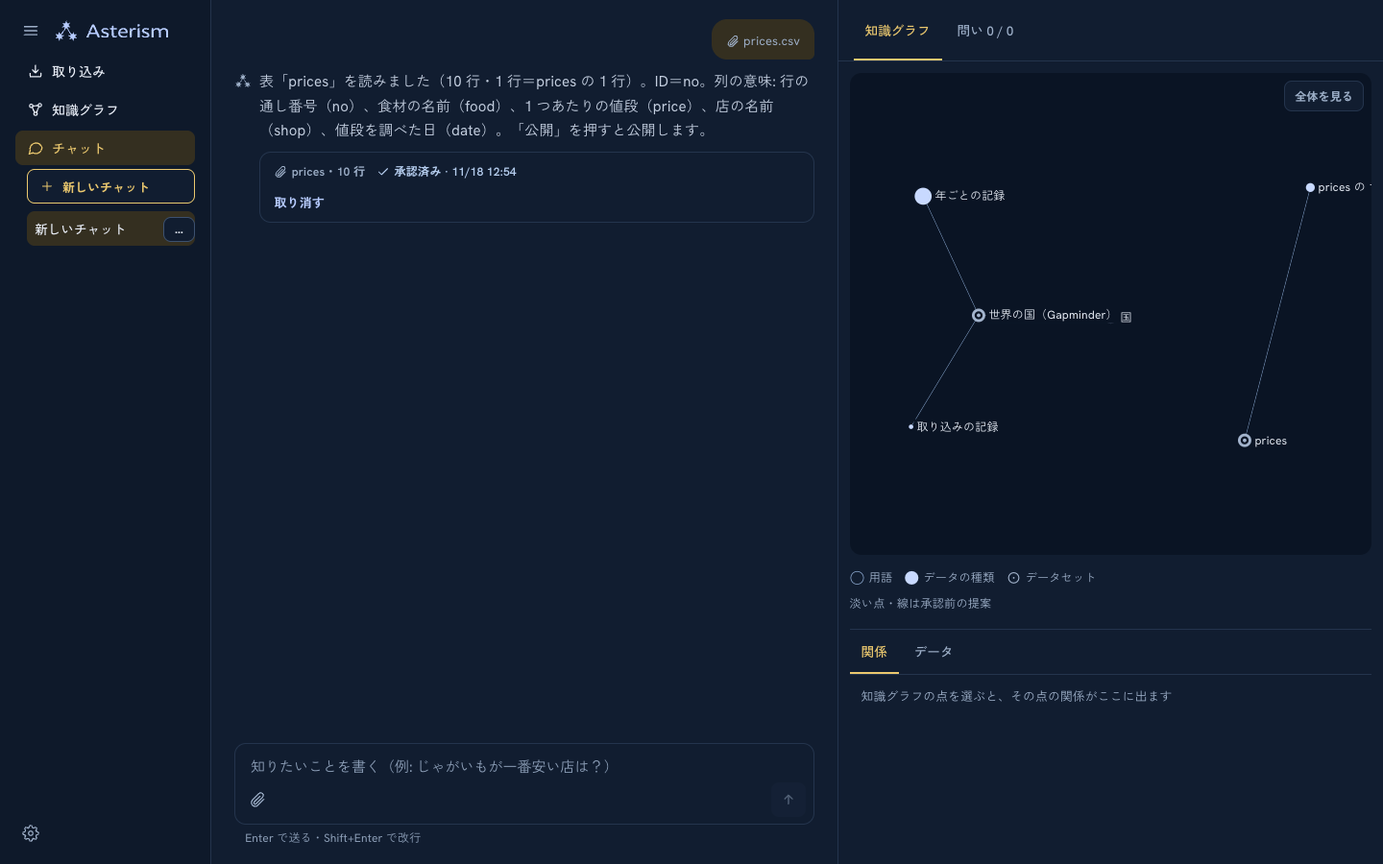
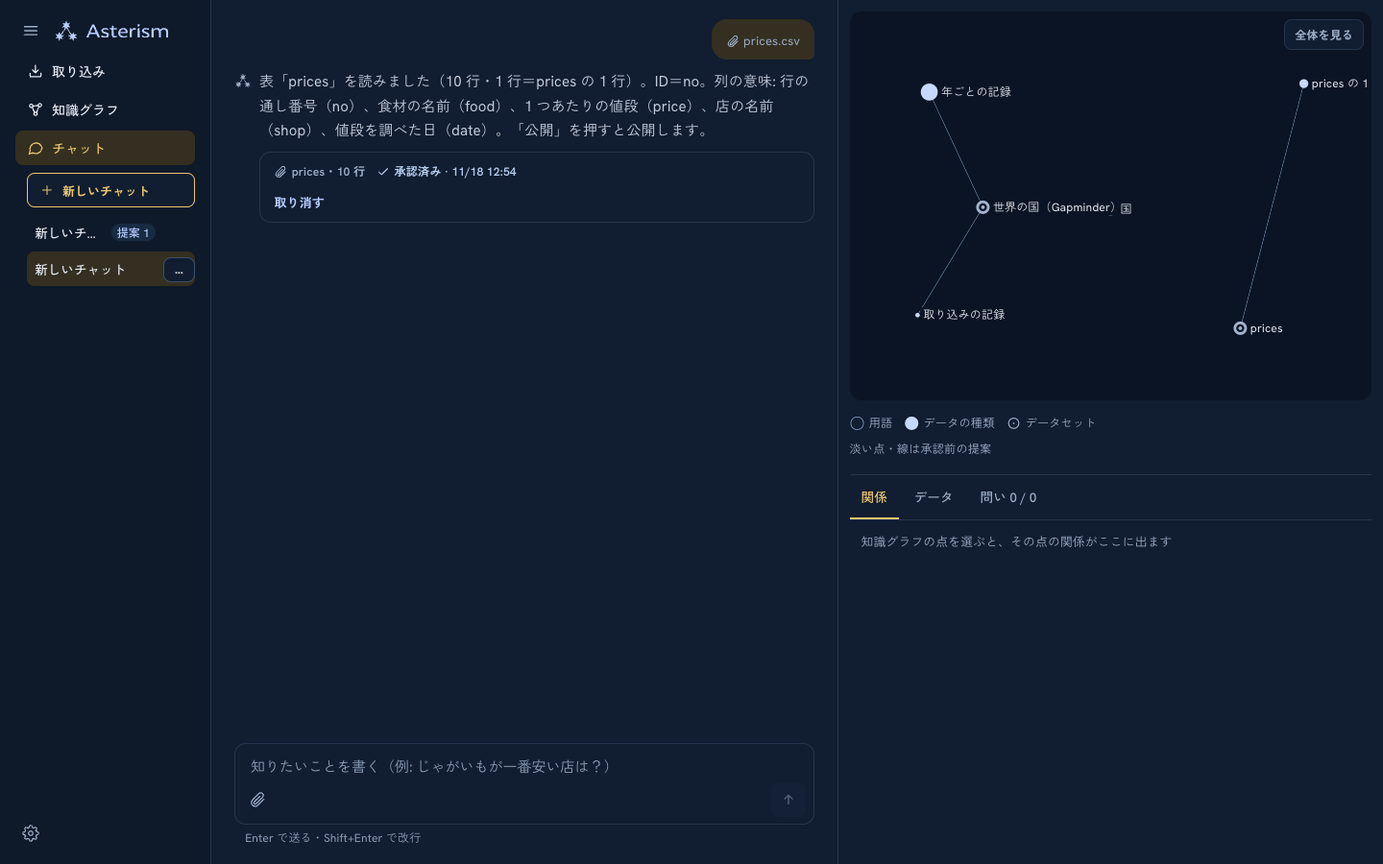
feat(ui): チャットの右を「知識グラフ」の場所とそろえる — 同じ部品・同じ順で、違いは大きさだけ
グラフの部品とデータは同じでも、まわりの並びが場所で違っていた（チャットはタブが 2 段・
選んだ点の 1 枚はチャットの先頭）。知識グラフに添える列を 1 つにし、両方の場所で使う。

- チャットの右: 知識グラフ → 選んだ点の 1 枚 → 「関係」「データ」「問い」の 1 段
- 1 枚の「データを見る」は、どの場所でも右のタブを「データ」に切り替えるだけ
- 問いの文を押すと、知識グラフが見える所まで戻る
- チャットの右の知識グラフは列の高さの 45%（下に 1 枚と一覧が続く）
- ChatPane から 1 枚の props を外し、使わなくなった文言と CSS を消した
- マニュアル・ADR・ROADMAP を直し、チャットの画像を撮り直した

diff --git a/docs/manual/ja/graph.html b/docs/manual/ja/graph.html
@@ -22,7 +22,7 @@
 <h2 id="全体の図">全体の図</h2>
 <p>公開済みの用語とデータの種類を、全部まとめて見る図です。丸と、その横の文字で描かれます。</p>
 <div class="tablewrap"><table><thead><tr><th>図の中のもの</th><th>描きかた</th></tr></thead><tbody><tr><td>○ 輪郭円（青灰）</td><td>用語（種類か項目）</td></tr><tr><td>● 塗り円（紺）</td><td>データの種類（公開した表の種類）。大きさは件数の対数</td></tr><tr><td>⊙ 中心点のある輪郭円（灰青）</td><td>データセット。種類を束ねる</td></tr><tr><td>淡く「(提案)」が付いた丸</td><td>提案（AI が追加したが、まだ承認していない）</td></tr><tr><td>濃い丸</td><td>承認済み（承認で確定した）</td></tr><tr><td>削除の提案</td><td>承認済みのものに「削除」を押すと、橙の塗りで示される。承認で確定する</td></tr></tbody></table></div>
-<ul><li>ホイール（タッチなら 2 本指）で拡大・縮小し、ドラッグで動かします。</li><li>点にマウスを載せると、その点の周りだけが濃くなり、名前が出ます。</li><li>用語どうしをつなぐ線に触れると、関係の名前（一種・一部・下げる・上げる・変える・作る・測る・変わる・競合する・物性）が出ます。</li><li>右上の「全体を見る」で、全体が収まる大きさに戻ります。</li><li>丸を押すと、チャットの先頭に 1 枚が出て、下の「関係」「データ」も変わります。入力欄の上には対象の札が付きます（下の「関係」「データ」「点を押す 1 枚」「対象」）。</li><li>名前は、重ならないものだけが出ます。拡大すると細かい名前も出てきます。</li><li>図の下の凡例も「○ 用語・● データの種類・⊙ データセット」の記号で示します。提案には淡さに加えて名前に「(提案)」が付きます。</li><li>同じ内容なら、いつも同じ図が描かれます。</li><li>何もないときは「まだ何もありません。問いを書くか表を添えると、ここに知識グラフが育ちます」と出ます。</li></ul>
+<ul><li>ホイール（タッチなら 2 本指）で拡大・縮小し、ドラッグで動かします。</li><li>点にマウスを載せると、その点の周りだけが濃くなり、名前が出ます。</li><li>用語どうしをつなぐ線に触れると、関係の名前（一種・一部・下げる・上げる・変える・作る・測る・変わる・競合する・物性）が出ます。</li><li>右上の「全体を見る」で、全体が収まる大きさに戻ります。</li><li>丸を押すと、右の列に 1 枚が出て、その下の「関係」「データ」も変わります。入力欄の上には対象の札が付きます（下の「関係」「データ」「点を押す 1 枚」「対象」）。</li><li>名前は、重ならないものだけが出ます。拡大すると細かい名前も出てきます。</li><li>図の下の凡例も「○ 用語・● データの種類・⊙ データセット」の記号で示します。提案には淡さに加えて名前に「(提案)」が付きます。</li><li>同じ内容なら、いつも同じ図が描かれます。</li><li>何もないときは「まだ何もありません。問いを書くか表を添えると、ここに知識グラフが育ちます」と出ます。</li></ul>
 <figure><a href="../screenshots/map.png" title="原寸で開く"><img src="../screenshots/map.png" alt="右の領域: 知識グラフ（丸＋横の文字）と、その下の「データ」"></a></figure>
 <figure><a href="../screenshots/confirm.png" title="原寸で開く"><img src="../screenshots/confirm.png" alt="承認で承認済み。知識グラフが濃くなる"></a></figure>
 <figure><a href="../screenshots/contents.png" title="原寸で開く"><img src="../screenshots/contents.png" alt="知識グラフのデータの種類を押すと、下にデータの表が出る"></a></figure>
@@ -36,16 +36,16 @@
 <div class="tablewrap"><table><thead><tr><th>押したもの</th><th>データに出るもの</th></tr></thead><tbody><tr><td>● 塗り円（データの種類）</td><td>その種類の行を 20 件まで。全件数も出る</td></tr><tr><td>○ 輪郭円（用語）</td><td>用語に結ばれた各データの表。データごとに小見出し。最大 3 表</td></tr><tr><td>⊙ 中心点のある輪郭円（データセット）</td><td>そのデータの種類の表。最大 3 表</td></tr><tr><td>淡く「(提案)」が付いた塗り円（📎 で添えた未公開の表）</td><td>公開前の表</td></tr><tr><td>何も押していない</td><td>このチャットで添えた表</td></tr></tbody></table></div>
 <ul><li>表が 3 つを超えるときは「ほか N 表は「値のつながり」で」と出ます。</li><li>見出し行を押すと折りたためます（次から覚えます）。</li><li>右上の「値のつながり」で、値の網に移ります（下の節）。</li><li>添えた表が無く、何も押していないときは「知識グラフの点を押すと、そのデータがここに出ます」と出ます。</li><li>行が 0 件のときは「まだ行がありません」と出ます。</li><li>薄い提案の用語は、承認して公開するまで行がありません。「承認して公開すると、ここに行が出ます」と出ます。</li></ul>
 <h2 id="問いのタブ">問いのタブ</h2>
-<p>一番上の「問い N / M」を押すと、承認した問いの一覧が出ます。縦にいくらでも並びます。</p>
+<p>「関係」「データ」の隣の「問い N / M」を押すと、承認した問いの一覧が出ます。縦にいくらでも並びます。</p>
 <div class="tablewrap"><table><thead><tr><th>欄</th><th>内容</th></tr></thead><tbody><tr><td>印</td><td>✓＝今のデータで答えられる・–＝まだ</td></tr><tr><td>問いの文</td><td>承認した問い。並びは話のテーマの順</td></tr><tr><td>下の小さい 1 行</td><td>データの問いは「〈データセット名〉で答えられる」（複数なら「・」でつなぎ、3 つまで＋「ほか n」）か「用語はある・データがまだ無い」。知識の問いは「関係で答えられる（n 本）」</td></tr><tr><td>薄い行</td><td>まだ承認していない提案の問い。「まだ承認していません」と出る</td></tr></tbody></table></div>
-<ul><li>問いの文を押すと、知識グラフが前に出て（「チャット」の右では「知識グラフ」のタブに切り替わり）、その問いに要る用語と、それに結ばれたデータの種類が光ります。</li><li>「回答」を押すと、「チャット」に移り、その問いが、質問として送られます（AI の答える口が設定されていないときは、その旨が返ります）（<a href="./ask.html">質問する</a>）。送ったあとは「送りました」になり、押せなくなります。</li><li>問いが 1 つも無いときは「問いはまだありません。チャットで聞いて「承認」すると増えます」と出ます。</li></ul>
+<ul><li>問いの文を押すと、知識グラフが見える所まで戻り、その問いに要る用語と、それに結ばれたデータの種類が光ります。</li><li>「回答」を押すと、「チャット」に移り、その問いが、質問として送られます（AI の答える口が設定されていないときは、その旨が返ります）（<a href="./ask.html">質問する</a>）。送ったあとは「送りました」になり、押せなくなります。</li><li>問いが 1 つも無いときは「問いはまだありません。チャットで聞いて「承認」すると増えます」と出ます。</li></ul>
 <figure><a href="../screenshots/questions.png" title="原寸で開く"><img src="../screenshots/questions.png" alt="問いのタブ: 答えられる問いに ✓、データセット名が下に出る"></a></figure>
 <h2 id="薄いと濃い">薄いと濃い</h2>
 <div class="tablewrap"><table><thead><tr><th>状態</th><th>どうなる</th></tr></thead><tbody><tr><td>淡く「(提案)」付き（承認前）</td><td>AI が返事のたびに追加する。承認しなくても消えない。「取り消す」で取り消せる</td></tr><tr><td>濃い（承認済み）</td><td>返事の「承認」で確定する。来歴が残り、質問やほかの AI からの問い合わせで使われる</td></tr></tbody></table></div>
 <p>承認済みになったものだけが、質問（<a href="./ask.html">質問する</a>）と外の AI への回答に使われます。</p>
 <h2 id="点を押す-1-枚">点を押す 1 枚</h2>
-<p>知識グラフの丸を押すと、1 枚が出ます（「知識グラフ」では右の上、「チャット」ではチャットの先頭。「取り込み」の右で押すと「知識グラフ」に移ります）。同時に、「関係」「データ」もその点のものに変わります。関係の一覧は 1 枚には出ません。「関係」のタブで見ます。</p>
-<div class="tablewrap"><table><thead><tr><th>欄</th><th>内容</th></tr></thead><tbody><tr><td>名前と種別</td><td>用語・種類・標準用語・つながり・提案</td></tr><tr><td>標準用語</td><td>「≡」の行。押すと標準用語の 1 枚</td></tr><tr><td>来歴</td><td>例: チャット「食材の値段」で 10/22 に AI が追加し、人が承認。「チャットを開く →」でそのチャットへ</td></tr><tr><td>データを見る</td><td>丸のとき。押すと、チャットに表が差し込まれる</td></tr><tr><td>削除</td><td>承認済みは「削除の提案」になり、承認で確定。薄いものは取り消し</td></tr></tbody></table></div>
+<p>知識グラフの丸を押すと、1 枚が出ます（「知識グラフ」では右の上、「チャット」では右の知識グラフの下。「取り込み」の右で押すと「知識グラフ」に移ります）。同時に、「関係」「データ」もその点のものに変わります。関係の一覧は 1 枚には出ません。「関係」のタブで見ます。</p>
+<div class="tablewrap"><table><thead><tr><th>欄</th><th>内容</th></tr></thead><tbody><tr><td>名前と種別</td><td>用語・種類・標準用語・つながり・提案</td></tr><tr><td>標準用語</td><td>「≡」の行。押すと標準用語の 1 枚</td></tr><tr><td>来歴</td><td>例: チャット「食材の値段」で 10/22 に AI が追加し、人が承認。「チャットを開く →」でそのチャットへ</td></tr><tr><td>データを見る</td><td>丸のとき。押すと、右のタブが「データ」に切り替わる（チャットに表で出したいときは「〜を見せて」と書く）</td></tr><tr><td>削除</td><td>承認済みは「削除の提案」になり、承認で確定。薄いものは取り消し</td></tr></tbody></table></div>
 <p>まだ公開していない表（データ）の丸は淡く出て、名前に「(提案)」が付きます。</p>
 <p><img src="../screenshots/point-term.png" alt="用語の丸を押すと出る 1 枚（名前・来歴）"><img src="../screenshots/point-star.png" alt="データの種類の丸を押すと出る 1 枚（データ）"></p>
 <figure><a href="../screenshots/map-point.png" title="原寸で開く"><img src="../screenshots/map-point.png" alt="知識グラフの丸を押すと 1 枚が開き、周りだけ濃くなる"></a></figure>

diff --git a/docs/manual/ja/screens.html b/docs/manual/ja/screens.html
@@ -18,8 +18,8 @@
 <h2 id="左のナビと-3-つの場所">左のナビと 3 つの場所</h2>
 <p>画面の左に、ナビが 3 つあります。「取り込み」「知識グラフ」「チャット」です（この順）。押すと、その場所に移ります。チャットの一覧は「チャット」の下にあり、どの場所にいても見えます。左下の ⚙（設定）は今までどおりです。「チャットの一覧を開閉」でたたむと、アイコンだけになります。</p>
 <figure><a href="../screenshots/place-import.png" title="原寸で開く"><img src="../screenshots/place-import.png" alt="取り込み: 中央にファイルを添える入口とデータセットの一覧、右に知識グラフ"></a></figure>
-<div class="tablewrap"><table><thead><tr><th>場所</th><th>中央</th><th>右</th></tr></thead><tbody><tr><td>取り込み</td><td>「ファイルを添える」（「この PC のファイル」。取り込み元を設定していれば「〈サーバ名〉 のファイル」も）と、「データセット」の一覧</td><td>知識グラフ（全体の図）</td></tr><tr><td>知識グラフ</td><td>知識グラフ（大きく）</td><td>選んだ点の 1 枚と、タブ「関係」「データ」「問い N / M」</td></tr><tr><td>チャット</td><td>入力欄（1 つの丸い枠。📎 で表を添え、丸い送るボタンか Enter で送る。Shift+Enter で改行）。人の文は右の吹き出し、AI の文は地の文。知識グラフへの提案は差し込みの札で、「承認」「公開」「取り消す」がある</td><td>一番上のタブ「知識グラフ」「問い N / M」。知識グラフの下に「関係」「データ」のタブ</td></tr></tbody></table></div>
-<ul><li>知識グラフは、○ 輪郭円＝用語・● 塗り円＝データの種類・「(提案)」付き＝承認前です。「関係」「データ」は、押した点について言っていることの行と、実際の行の表です。「値のつながり」はデータの右上にあります</li><li>最初に開く場所は、データセットもチャットも無ければ「取り込み」、あれば最後にいた場所です（覚えが無ければ、チャットがあるときはチャット、無ければ取り込み）</li><li>「取り込み」でファイルを選ぶと、新しいチャットが作られて「チャット」に移り、そこで読み取りの返事と承認が出ます。データセットの行を押すと「知識グラフ」に移り、そのデータセットが選ばれます</li><li>「知識グラフ」で、関係の「削除」「修正」「承認」や問いの「回答」を押すと、「チャット」に移って続きます。点の 1 枚の「データを見る」は、右のタブを「データ」に切り替えるだけです</li><li>画面の URL は <code>#/import</code>・<code>#/graph</code>・<code>#/chat</code>・<code>#/chat/&lt;id&gt;</code>・<code>#/settings</code> です</li></ul>
+<div class="tablewrap"><table><thead><tr><th>場所</th><th>中央</th><th>右</th></tr></thead><tbody><tr><td>取り込み</td><td>「ファイルを添える」（「この PC のファイル」。取り込み元を設定していれば「〈サーバ名〉 のファイル」も）と、「データセット」の一覧</td><td>知識グラフ（全体の図）</td></tr><tr><td>知識グラフ</td><td>知識グラフ（大きく）</td><td>選んだ点の 1 枚と、タブ「関係」「データ」「問い N / M」</td></tr><tr><td>チャット</td><td>入力欄（1 つの丸い枠。📎 で表を添え、丸い送るボタンか Enter で送る。Shift+Enter で改行）。人の文は右の吹き出し、AI の文は地の文。知識グラフへの提案は差し込みの札で、「承認」「公開」「取り消す」がある</td><td>知識グラフ。その下に、押した点の 1 枚と「関係」「データ」「問い N / M」のタブ（「知識グラフ」の場所の右と同じ並び）</td></tr></tbody></table></div>
+<ul><li>知識グラフは、○ 輪郭円＝用語・● 塗り円＝データの種類・「(提案)」付き＝承認前です。「関係」「データ」は、押した点について言っていることの行と、実際の行の表です。「値のつながり」はデータの右上にあります</li><li>最初に開く場所は、データセットもチャットも無ければ「取り込み」、あれば最後にいた場所です（覚えが無ければ、チャットがあるときはチャット、無ければ取り込み）</li><li>「取り込み」でファイルを選ぶと、新しいチャットが作られて「チャット」に移り、そこで読み取りの返事と承認が出ます。データセットの行を押すと「知識グラフ」に移り、そのデータセットが選ばれます</li><li>「知識グラフ」で、関係の「削除」「修正」「承認」や問いの「回答」を押すと、「チャット」に移って続きます。点の 1 枚の「データを見る」は、どの場所でも、右のタブを「データ」に切り替えるだけです</li><li>画面の URL は <code>#/import</code>・<code>#/graph</code>・<code>#/chat</code>・<code>#/chat/&lt;id&gt;</code>・<code>#/settings</code> です</li></ul>
 <p>狭い画面（980px 以下）では、ナビは下の 3 つのタブ（取り込み・知識グラフ・チャット）になり、場所ごとに 1 列で出ます。「チャット」はチャットだけで、チャットの一覧は上の ≡ で開きます。知識グラフと問いは、下のタブ「知識グラフ」で見ます。</p>
 <h2 id="チャットの見かた">チャットの見かた</h2>
 <div class="tablewrap"><table><thead><tr><th>もの</th><th>見え方</th></tr></thead><tbody><tr><td>あなたの文</td><td>右寄せの吹き出し。表を添えたときは、クリップの印と名前が付く</td></tr><tr><td>AI の文</td><td>吹き出しの無い地の文。考えている間は 3 つの点</td></tr><tr><td>知識グラフへの提案</td><td>文の下の札。上の行は「知識グラフへの提案 · N 件」（承認後は「承認済み · 日時」、取り消すと「取り消し済み」）、下の行は「承認」（表を公開するときは「公開」）と「取り消す」</td></tr><tr><td>入力欄</td><td>1 つの丸い枠。書くほど行が伸びる。左下の 📎 で表を添え、右下の丸い送るボタンで送る。枠の下に「Enter で送る・Shift+Enter で改行」</td></tr></tbody></table></div>
@@ -32,7 +32,7 @@
 <h2 id="公開したデータに質問する">公開したデータに質問する</h2>
 <p>同じチャットに「スーパーの価格表には何件ある？ 回答して」のように書きます。答えには出典が付きます（<a href="./ask.html">質問する</a>）。</p>
 <h2 id="点を押す-データを見る">点を押す・データを見る</h2>
-<p>知識グラフの丸を押すと、「知識グラフ」では右に、「チャット」ではチャットの先頭に 1 枚が出て（名前・来歴・データを見る・削除）、下の「関係」「データ」も変わり、入力欄の上に対象の札（「対象: 〈名前〉」）が付きます。「値段の記録を見せて」と書くと表で返ります（<a href="./graph.html">知識グラフ</a>・<a href="./workspace.html">見る</a>）。</p>
+<p>知識グラフの丸を押すと、右の列に 1 枚が出て（名前・来歴・データを見る・削除。「知識グラフ」では右の上、「チャット」では知識グラフの下）、その下の「関係」「データ」も変わり、入力欄の上に対象の札（「対象: 〈名前〉」）が付きます。「値段の記録を見せて」と書くと表で返ります（<a href="./graph.html">知識グラフ</a>・<a href="./workspace.html">見る</a>）。</p>
 <h2 id="値のつながり">値のつながり</h2>
 <p>「データ」の見出し行の右上にあります。値でつなぐ網に移ります（<a href="./graph.html">知識グラフ</a>）。</p>
 <h2 id="使う-AI-プロバイダ-言語-利用許可コード-使用量">使う AI（プロバイダ）・言語・利用許可コード・使用量</h2>

diff --git a/ui/src/chat/ChatApp.tsx b/ui/src/chat/ChatApp.tsx
@@ -83,6 +83,8 @@ const messageOf = (e: unknown): string => (e instanceof Error ? e.message : Stri
 
 /** 知識グラフを入れ物いっぱいに出すときに引く高さ（見出し・凡例・上下の余白）。 */
 const MAP_CHROME_PX = 96
+/** 「チャット」の右で知識グラフが取る高さの割合。下に 1 枚と「関係」「データ」「問い」が続くので半分弱。 */
+const CHAT_MAP_RATIO = 0.45
 
 export function ChatApp() {
   const { t, i18n } = useTranslation('chat')
@@ -231,9 +233,7 @@ export function ChatApp() {
   useEffect(() => {
     setReader(null)
   }, [view, composerKey])
-  // 「チャット」の右の領域の一番上のタブ
-  const [rtab, setRtab] = useState<'graph' | 'questions'>('graph')
-  // 「知識グラフ」の右の領域で「問い」のタブを開いているか（関係／データは subTab が決める）
+  // 右の列（「知識グラフ」の右・「チャット」の右で共通）で「問い」のタブを開いているか（関係／データは subTab が決める）
   const [graphQuestions, setGraphQuestions] = useState(false)
 
   // ── 点を押した 1 枚（図の点・線 → GET /api/chat/point → チャットの先頭） ──
@@ -854,8 +854,8 @@ export function ChatApp() {
     const apply = () => {
       if (layout.tabs) return setMapH(Math.round(window.innerHeight * 0.55))
       const h = el?.clientHeight ?? 0
-      // 「チャット」の右は下に関係とデータが続くので 6 割。ほかの場所は入れ物いっぱい（凡例と余白の分を引く）
-      if (h > 0) setMapH(Math.max(260, place === 'chat' ? Math.round(h * 0.6) : h - MAP_CHROME_PX))
+      // 「チャット」の右は下に 1 枚と一覧が続くので半分弱。ほかの場所は入れ物いっぱい（凡例と余白の分を引く）
+      if (h > 0) setMapH(Math.max(260, place === 'chat' ? Math.round(h * CHAT_MAP_RATIO) : h - MAP_CHROME_PX))
     }
     apply()
     window.addEventListener('resize', apply)
@@ -869,7 +869,6 @@ export function ChatApp() {
   }, [layout.tabs, addOpen, place])
 
   // ── 問いのタブ（PR 11l） ──
-  const rightView: 'graph' | 'questions' = rtab
   const qAnswerable = okSky ? okSky.sky.questions.filter(isAnswerable).length : 0
   const qTotal = okSky?.sky.questions.length ?? 0
   const proposedQuestions = useMemo(
@@ -886,9 +885,8 @@ export function ChatApp() {
     (q: SkyQuestion) => {
       const members = (okSky?.sky.terms ?? []).filter((x) => q.needs.includes(x.iri)).flatMap((x) => x.members.map((m) => m.iri))
       setHighlight({ iris: [...new Set([...q.needs, ...members])] })
-      // 「チャット」の右のタブからは知識グラフのタブへ。「知識グラフ」の場所では図は既に出ている（375 は図まで戻す）
-      if (placeRef.current === 'chat') setRtab('graph')
-      else if (layout.tabs) scrollRef.current?.scrollTo?.({ top: 0 })
+      // 知識グラフが同じ列の上にあるとき（「チャット」の右・375 の「知識グラフ」）は、光った点が見えるよう上まで戻す
+      if (placeRef.current === 'chat' || layout.tabs) scrollRef.current?.scrollTo?.({ top: 0 })
     },
     [okSky, layout.tabs],
   )
@@ -1008,7 +1006,7 @@ export function ChatApp() {
   const questionsPanel = okSky && (
     <QuestionsPanel questions={okSky.sky.questions} sky={okSky.sky} proposed={proposedQuestions} onPick={onPickQuestion} onAsk={onAskQuestion} busy={busy !== null} />
   )
-  /** 「知識グラフ」の場所の右（375 では図の下）: 選んだ点の 1 枚＋「関係」「データ」「問い」。 */
+  /** 知識グラフに添える列（「知識グラフ」の右・「チャット」の右の知識グラフの下・375 では図の下）: 選んだ点の 1 枚＋「関係」「データ」「問い」。 */
   const graphSide = okSky && (
     <>
       {sel && point && (
@@ -1018,7 +1016,7 @@ export function ChatApp() {
             point={point}
             busy={busy !== null}
             titleOf={titleOf}
-            // ここでは右のタブを「データ」に切り替えるだけ（チャットに文を送らない）
+            // 右のタブを「データ」に切り替えるだけ（チャットに文を送らない。表で見たいときは「〜を見せて」と書く）
             onContents={() => {
               setTempTab({ pickedId })
               setGraphQuestions(false)
@@ -1173,15 +1171,6 @@ export function ChatApp() {
           onConfirm={(id, d) => void onConfirm(id, d)}
           onRevert={(id) => void onRevert(id)}
           onOpenSettings={() => openSettings()}
-          // 375 の「チャット」には知識グラフが無いので、点の 1 枚は「知識グラフ」の場所に出す
-          point={sel && !layout.tabs ? point : null}
-          titleOf={titleOf}
-          onContents={(name) => {
-            setTempTab({ pickedId })
-            void onSend(t('point.showText', { name }))
-          }}
-          onPointRevert={(p) => void onPointRevert(p)}
-          onPointRemove={() => void onPointRemove()}
           undone={undone}
           onHighlight={setHighlight}
           scopeBar={scope ? <ScopeBar name={scope.name} onClear={() => setScope(null)} /> : undefined}
@@ -1205,35 +1194,15 @@ export function ChatApp() {
           <div className="chat-right-scroll">{graphSide}</div>
         </section>
       )}
+      {/* 「チャット」の右は「知識グラフ」の場所と同じ部品・同じ順（知識グラフ → 1 枚 → 関係・データ・問い）。違いは大きさだけ */}
       {!layout.tabs && place === 'chat' && (
         <section className="chat-right">
-          <div className="chat-rtabs" role="tablist" aria-label={tq('tab.label')}>
-            <button type="button" role="tab" data-testid="tab-knowledge" aria-selected={rightView === 'graph'} className={`chat-tab${rightView === 'graph' ? ' active' : ''}`} onClick={() => setRtab('graph')}>
-              {tq('tab.graph')}
-            </button>
-            <button type="button" role="tab" data-testid="tab-questions" aria-selected={rightView === 'questions'} className={`chat-tab${rightView === 'questions' ? ' active' : ''}`} onClick={() => setRtab('questions')}>
-              {tq('tab.questions', { n: qAnswerable, m: qTotal })}
-            </button>
-          </div>
           {skyStatus}
-          {okSky && rightView === 'questions' && <div className="chat-right-scroll">{questionsPanel}</div>}
-          <div className="chat-right-scroll" ref={scrollRef} hidden={rightView !== 'graph'}>
-            {okSky && (
-              <>
-                {mapBlock(onMapSelect)}
-                <div className="chat-rtabs chat-subtabs" role="tablist" aria-label={t('sentences.tabs')}>
-                  <button type="button" role="tab" data-testid="tab-sentences" aria-selected={subTab === 'sentences'} className={`chat-tab${subTab === 'sentences' ? ' active' : ''}`} onClick={() => chooseSub('sentences')}>
-                    {t('sentences.tab')}
-                  </button>
-                  <button type="button" role="tab" data-testid="tab-data" aria-selected={subTab === 'data'} className={`chat-tab${subTab === 'data' ? ' active' : ''}`} onClick={() => chooseSub('data')}>
-                    {t('sentences.dataTab')}
-                  </button>
-                </div>
-                {subTab === 'sentences' ? sentencesPanel : contentsPanel}
-              </>
-            )}
+          <div className="chat-right-scroll" ref={scrollRef}>
+            {mapBlock(onMapSelect)}
+            {graphSide}
           </div>
-          {showHand && rightView === 'graph' && <HandForm key={session?.id} draft={sessionDraft} nextKey={nextHandKey(handKeys)} busy={busy !== null} onSubmit={onSendOps} onAnswer={onSendAnswer} />}
+          {showHand && <HandForm key={session?.id} draft={sessionDraft} nextKey={nextHandKey(handKeys)} busy={busy !== null} onSubmit={onSendOps} onAnswer={onSendAnswer} />}
         </section>
       )}
       {layout.tabs && <PlaceTabbar place={place} onPlace={goPlace} />}

diff --git a/docs/manual/ja/getting-started.html b/docs/manual/ja/getting-started.html
@@ -17,7 +17,7 @@
 <p>Asterism は、チャットで知りたいことを話すと、AI が答えに要る知識（問い・概念・関係）を知識グラフに足していく道具です。人は文を読んで正しいかを確かめ、「承認」を押して確定します。表や文書を添えると（「取り込み」か 📎）、データも同じ流れで公開できます。</p>
 <h2 id="画面は-3-つの場所">画面は 3 つの場所</h2>
 <p>アプリを開くと、左に「取り込み」「知識グラフ」「チャット」のナビが並びます。押すと、その場所に移ります。</p>
-<div class="tablewrap"><table><thead><tr><th>場所</th><th>役割</th></tr></thead><tbody><tr><td>取り込み</td><td>中央に「ファイルを添える」（表や論文）と「データセット」の一覧。右に知識グラフ</td></tr><tr><td>知識グラフ</td><td>中央に知識グラフ（大きく）。右に、押した点の 1 枚と、「関係」「データ」「問い N / M」のタブ。淡く「(提案)」付き＝承認前、濃い＝承認済み</td></tr><tr><td>チャット</td><td>文を書いて送る。人の文は右の吹き出し、AI の文は地の文、知識グラフへの提案は差し込みの札。表を添えるときは 📎。右に知識グラフと問いのタブ</td></tr></tbody></table></div>
+<div class="tablewrap"><table><thead><tr><th>場所</th><th>役割</th></tr></thead><tbody><tr><td>取り込み</td><td>中央に「ファイルを添える」（表や論文）と「データセット」の一覧。右に知識グラフ</td></tr><tr><td>知識グラフ</td><td>中央に知識グラフ（大きく）。右に、押した点の 1 枚と、「関係」「データ」「問い N / M」のタブ。淡く「(提案)」付き＝承認前、濃い＝承認済み</td></tr><tr><td>チャット</td><td>文を書いて送る。人の文は右の吹き出し、AI の文は地の文、知識グラフへの提案は差し込みの札。表を添えるときは 📎。右に知識グラフと、その下に押した点の 1 枚・「関係」「データ」「問い N / M」のタブ（「知識グラフ」の場所の右と同じ並び）</td></tr></tbody></table></div>
 <p>チャットの一覧（これまでの話）は、左の「チャット」の下にあります。「新しいチャット」で始め、各チャットの「…」で名前を修正・消します。左下に ⚙（設定）があります。最初に開く場所は、データセットもチャットも無ければ「取り込み」、あれば最後にいた場所です。この章の流れ（話す・承認する）は「チャット」で進みます。</p>
 <figure><a href="../screenshots/place-chat.png" title="原寸で開く"><img src="../screenshots/place-chat.png" alt="チャット: 中央に会話、右に知識グラフ"></a></figure>
 <p>980px 以下の狭い画面では、下に「取り込み」「知識グラフ」「チャット」の 3 つのタブが出ます。チャットの一覧は「チャット」の上の ≡ で開きます。</p>

diff --git a/ui/src/chat/ChatPane.tsx b/ui/src/chat/ChatPane.tsx
@@ -3,9 +3,8 @@
 import { useEffect, useRef } from 'react'
 import { useTranslation } from 'react-i18next'
 import { BrandMark, PaperclipIcon } from '../icons'
-import type { BindingDecision, Point, Session, Undone } from './chatApi'
+import type { BindingDecision, Session, Undone } from './chatApi'
 import { confirmTargets, proposedCount, type Highlight } from './chatState'
-import { PointCard } from './PointCard'
 import { Composer } from './Composer'
 import { ReplyCard } from './ReplyCard'
 
@@ -47,18 +46,9 @@ export interface ChatPaneProps {
   onConfirm: (turnId: string, decisions?: BindingDecision[]) => void
   onRevert: (turnId: string) => void
   onOpenSettings: () => void
-  /** 点を押した 1 枚（先頭に固定）。 */
-  point?: Point | null
-  /** 話の id → 題。 */
-  titleOf?: (sessionId: string) => string | undefined
-  /** 「中身」（<名前>を見せて）。 */
-  onContents?: (name: string) => void
-  onPointRevert?: (point: Point) => void
-  /** 確認済みの用語・線を外す提案にする。 */
-  onPointRemove?: (point: Point) => void
   /** 確認済みの手番を戻した結果（手番の id → 結果）。 */
   undone?: Record<string, Undone>
-  /** 1 枚・表・出典の中で押したものを図で濃くする。 */
+  /** 表・出典の中で押したものを知識グラフで濃くする。 */
   onHighlight?: (h: Highlight | null) => void
   /** 範囲の札（入力欄の上）・直すときの一時の例文・フォーカスの合図。 */
   scopeBar?: React.ReactNode
@@ -91,20 +81,6 @@ export function ChatPane(p: ChatPaneProps) {
 
   return (
     <div className="chat-pane">
-      {p.point && (
-        <div className="chat-pinned">
-          <PointCard
-            key={`${p.point.kind}|${p.point.iri}|${p.point.label}`}
-            point={p.point}
-            busy={p.busy}
-            titleOf={p.titleOf}
-            onContents={(name) => void p.onContents?.(name)}
-            onRevert={(pt) => p.onPointRevert?.(pt)}
-            onRemove={(pt) => p.onPointRemove?.(pt)}
-            onHighlight={(h) => p.onHighlight?.(h)}
-          />
-        </div>
-      )}
       <div className="chat-scroll" role="log" aria-live="polite">
         {p.loadError ? (
           <p className="promote-err" role="alert">

diff --git a/docs/manual/ja/workspace.html b/docs/manual/ja/workspace.html
@@ -16,7 +16,7 @@
 <h1 id="見る-点を押してデータを見る-見せて-で表">見る — 点を押してデータを見る・「見せて」で表</h1>
 <p>1 件ずつのページや、カード・見せ方を選ぶ画面はありません。見るには 2 つの方法があります。</p>
 <h2 id="点を押す">点を押す</h2>
-<p>知識グラフの塗り円（●、データの種類）を押すと、1 枚が出ます（「知識グラフ」では右の上、「チャット」ではチャットの先頭）。「データ」のタブには、その種類の行が 20 件まで表で出ます。知識グラフの輪郭円（○、用語）を押すと、その用語に結ばれた各データの表が並びます。「関係」のタブでは、その点の関係を 1 行ずつ見られます（<a href="./graph.html">知識グラフ</a>）。</p>
+<p>知識グラフの塗り円（●、データの種類）を押すと、1 枚が出ます（「知識グラフ」では右の上、「チャット」では右の知識グラフの下）。1 枚の「データを見る」を押すと、右のタブが「データ」に切り替わります。「データ」のタブには、その種類の行が 20 件まで表で出ます。知識グラフの輪郭円（○、用語）を押すと、その用語に結ばれた各データの表が並びます。「関係」のタブでは、その点の関係を 1 行ずつ見られます（<a href="./graph.html">知識グラフ</a>）。</p>
 <figure><a href="../screenshots/point-star.png" title="原寸で開く"><img src="../screenshots/point-star.png" alt="知識グラフの丸を押すと出る 1 枚（データ）"></a></figure>
 <h2 id="を見せて-で表">「…を見せて」で表</h2>
 <p>チャットに書くと、表で返ります。</p>

diff --git a/ui/src/chat/chat.css b/ui/src/chat/chat.css
@@ -885,12 +885,6 @@
 }
 
 /* 点を押した 1 枚（PR 11d）。会話の先頭に固定 */
-.chat-pinned {
-  flex: none;
-  max-height: 45%;
-  overflow-y: auto;
-  padding: var(--space-3) var(--space-4) 0;
-}
 .chat-point-std,
 .chat-point-prov {
   margin: var(--space-1) 0 0;

diff --git a/manual/ja/graph.md b/manual/ja/graph.md
@@ -40,7 +40,7 @@
 - 点にマウスを載せると、その点の周りだけが濃くなり、名前が出ます。
 - 用語どうしをつなぐ線に触れると、関係の名前（一種・一部・下げる・上げる・変える・作る・測る・変わる・競合する・物性）が出ます。
 - 右上の「全体を見る」で、全体が収まる大きさに戻ります。
-- 丸を押すと、チャットの先頭に 1 枚が出て、下の「関係」「データ」も変わります。入力欄の上には対象の札が付きます（下の「関係」「データ」「点を押す 1 枚」「対象」）。
+- 丸を押すと、右の列に 1 枚が出て、その下の「関係」「データ」も変わります。入力欄の上には対象の札が付きます（下の「関係」「データ」「点を押す 1 枚」「対象」）。
 - 名前は、重ならないものだけが出ます。拡大すると細かい名前も出てきます。
 - 図の下の凡例も「○ 用語・● データの種類・⊙ データセット」の記号で示します。提案には淡さに加えて名前に「(提案)」が付きます。
 - 同じ内容なら、いつも同じ図が描かれます。
@@ -94,7 +94,7 @@
 
 ## 問いのタブ
 
-一番上の「問い N / M」を押すと、承認した問いの一覧が出ます。縦にいくらでも並びます。
+「関係」「データ」の隣の「問い N / M」を押すと、承認した問いの一覧が出ます。縦にいくらでも並びます。
 
 | 欄 | 内容 |
 |---|---|
@@ -103,7 +103,7 @@
 | 下の小さい 1 行 | データの問いは「〈データセット名〉で答えられる」（複数なら「・」でつなぎ、3 つまで＋「ほか n」）か「用語はある・データがまだ無い」。知識の問いは「関係で答えられる（n 本）」 |
 | 薄い行 | まだ承認していない提案の問い。「まだ承認していません」と出る |
 
-- 問いの文を押すと、知識グラフが前に出て（「チャット」の右では「知識グラフ」のタブに切り替わり）、その問いに要る用語と、それに結ばれたデータの種類が光ります。
+- 問いの文を押すと、知識グラフが見える所まで戻り、その問いに要る用語と、それに結ばれたデータの種類が光ります。
 - 「回答」を押すと、「チャット」に移り、その問いが、質問として送られます（AI の答える口が設定されていないときは、その旨が返ります）（[質問する](./ask.md)）。送ったあとは「送りました」になり、押せなくなります。
 - 問いが 1 つも無いときは「問いはまだありません。チャットで聞いて「承認」すると増えます」と出ます。
 
@@ -120,14 +120,14 @@
 
 ## 点を押す 1 枚
 
-知識グラフの丸を押すと、1 枚が出ます（「知識グラフ」では右の上、「チャット」ではチャットの先頭。「取り込み」の右で押すと「知識グラフ」に移ります）。同時に、「関係」「データ」もその点のものに変わります。関係の一覧は 1 枚には出ません。「関係」のタブで見ます。
+知識グラフの丸を押すと、1 枚が出ます（「知識グラフ」では右の上、「チャット」では右の知識グラフの下。「取り込み」の右で押すと「知識グラフ」に移ります）。同時に、「関係」「データ」もその点のものに変わります。関係の一覧は 1 枚には出ません。「関係」のタブで見ます。
 
 | 欄 | 内容 |
 |---|---|
 | 名前と種別 | 用語・種類・標準用語・つながり・提案 |
 | 標準用語 | 「≡」の行。押すと標準用語の 1 枚 |
 | 来歴 | 例: チャット「食材の値段」で 10/22 に AI が追加し、人が承認。「チャットを開く →」でそのチャットへ |
-| データを見る | 丸のとき。押すと、チャットに表が差し込まれる |
+| データを見る | 丸のとき。押すと、右のタブが「データ」に切り替わる（チャットに表で出したいときは「〜を見せて」と書く） |
 | 削除 | 承認済みは「削除の提案」になり、承認で確定。薄いものは取り消し |
 
 まだ公開していない表（データ）の丸は淡く出て、名前に「(提案)」が付きます。

diff --git a/docs/ROADMAP.md b/docs/ROADMAP.md
@@ -92,7 +92,7 @@
 
 ## 更新 log
 
-- 2026-11-18: **左のナビを 3 つの仕事（取り込み・知識グラフ・チャット）で組み直した（PR 14d-1・殻・UI だけ）**。決定は ADR `sky-chart-two-entries.md` §2.4h。場所ごとに中央と右を並べ替えるだけで、状態（今のチャット・選んだ点・図の読み取り）は場所をまたいで 1 つ。チャットの列はほかの場所に居るあいだも閉じずに隠す（入力欄の下書きが残る）。取り込みの入口は今の 📎 と同じ 2 つ（この PC のファイル・取り込み元のファイル）で、添えると新しいチャットに移る。AI 未設定のフォーム（かんたん）は取り込みの中央に出す。マニュアルは本文を全章直し、殻が写る画像（最初の画面・375px・3 つの場所）を撮り直した。**残した穴**: AI の返事が写る画像（返事・承認・関係・問い・回答 など）は左の列が前の形のまま（撮影用の AI の台本が残っておらず、14d-2・14e-1 で画面がまた変わるので、そこで撮り直す）。
+- 2026-11-18: **左のナビを 3 つの仕事（取り込み・知識グラフ・チャット）で組み直した（PR 14d-1・殻・UI だけ）**。決定は ADR `sky-chart-two-entries.md` §2.4h。場所ごとに中央と右を並べ替えるだけで、状態（今のチャット・選んだ点・図の読み取り）は場所をまたいで 1 つ。チャットの列はほかの場所に居るあいだも閉じずに隠す（入力欄の下書きが残る）。取り込みの入口は今の 📎 と同じ 2 つ（この PC のファイル・取り込み元のファイル）で、添えると新しいチャットに移る。AI 未設定のフォーム（かんたん）は取り込みの中央に出す。チャットの右は「知識グラフ」の場所の右と同じ部品・同じ順（知識グラフ → 選んだ点の 1 枚 → 「関係」「データ」「問い」）にそろえ、1 枚はチャットの先頭から右の列へ移した。マニュアルは本文を全章直し、殻が写る画像（最初の画面・375px・3 つの場所）を撮り直した。**残した穴**: AI の返事が写る画像（返事・承認・関係・問い・回答 など）は左の列が前の形のまま（撮影用の AI の台本が残っておらず、14d-2・14e-1 で画面がまた変わるので、そこで撮り直す）。
 
 - 2026-11-18: **語の組ごとに関係を選ぶ核を入れた（PR 14c）**。1 回の仕事を「1 組・閉じた集合から 1 つ」に保ち、結果は取り込み元ごとの台帳に置く（話の下書きには入れない）。手元の実データ（知見 1,515・語 390・組 269）で、製品のプロンプトと検査をそのまま通して確かめた: 強いモデルの代役で関係 87 本（32%）・抜き取り 16 本中 15 本が文どおり、弱いモデルの代役で 111 本、2 つの結果は 233 組で一致。設計時の試し（176 本・16 本中 12 本）より本数は減り、当たりは上がった。題から来た関係（83 本）は、AI が読めた 43 本の半分が食い違ったので、突き合わせの印を付けて候補に回す。普段使いの弱いモデルでの API 越しの実測と、画面・入口・確認は次（14d・14e）。
 
